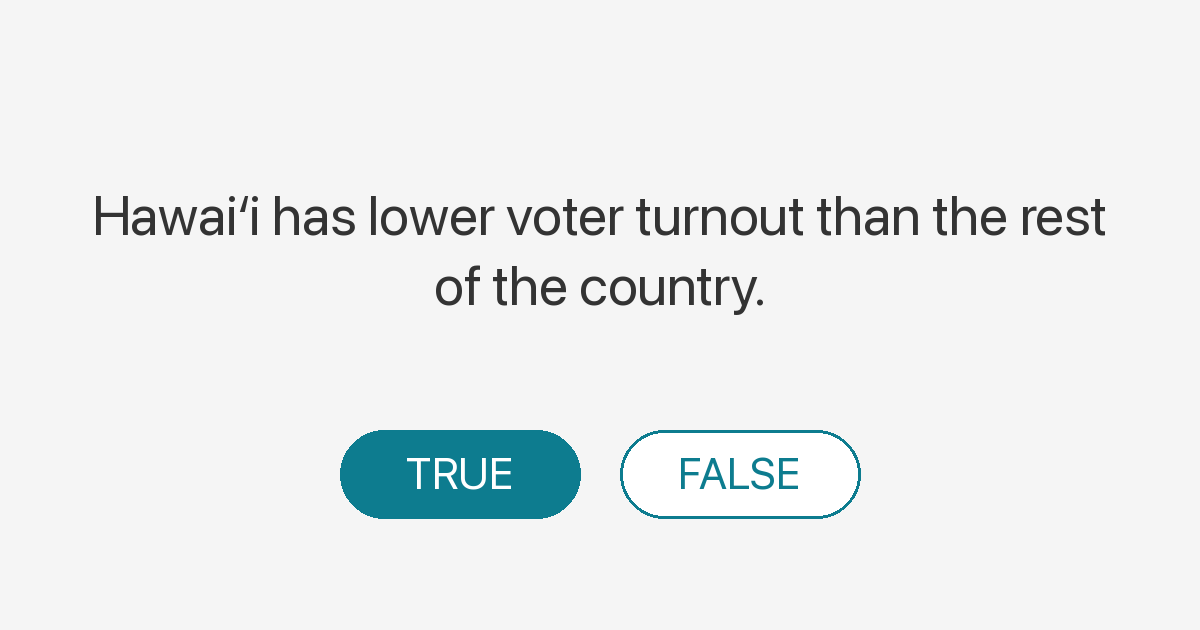
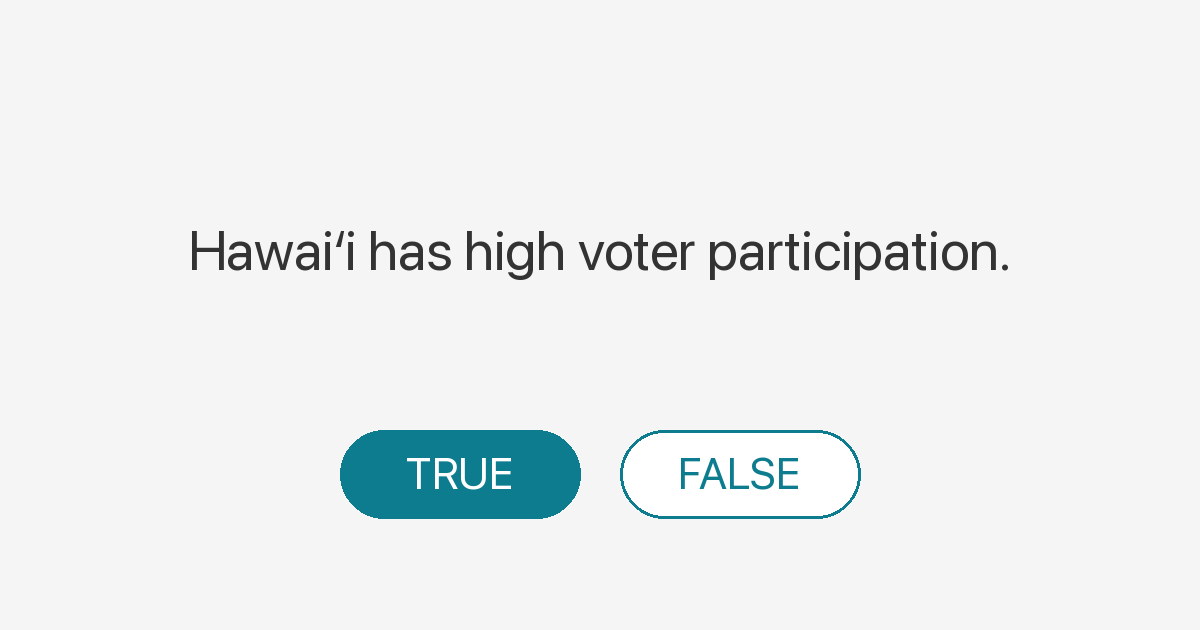
qotd(q069): reword to "Hawaiʻi has high voter participation" (now FALSE)
Flip today's question from a TRUE turnout claim to a FALSE participation claim,
for answer variety. "Voter participation" (share of eligible voters) also fits
the metric better than "voter turnout" (which conventionally means registered
voters), and matches the slug + metric label. Answer reveal is unchanged
(50.3% vs median 64.7%). Regenerated the q069 redirect page and OG card.

Changed region(s): [[0.0617, 0.3016, 0.925, 0.4825]]

diff --git a/q/q069/index.html b/q/q069/index.html
@@ -13,7 +13,7 @@
   <meta name="twitter:card" content="summary_large_image">
   <meta name="twitter:title" content="You know Hawaiʻi?">
   <meta name="twitter:image" content="https://hawaiidashboard.org/assets/og/q/hawaii-has-lower-voter-participation-than-the-rest-of-the-country.png">
-  <meta name="description" content="Hawaiʻi has lower voter turnout than the rest of the country.">
+  <meta name="description" content="Hawaiʻi has high voter participation.">
   <link rel="canonical" href="https://hawaiidashboard.org/q/q069/">
   <script>window.location.replace("/?from_q=q069");</script>
   <meta http-equiv="refresh" content="0;url=https://hawaiidashboard.org/?from_q=q069">
@@ -22,8 +22,8 @@
   <p>Redirecting to <a href="https://hawaiidashboard.org/?from_q=q069">You know Hawaiʻi?</a>&hellip;</p>
   <article style="max-width:640px;margin:2rem auto;padding:0 1rem;font-family:-apple-system,BlinkMacSystemFont,'Segoe UI',sans-serif;color:#333;line-height:1.55;">
     <p style="color:#888;font-size:0.875rem;text-transform:uppercase;letter-spacing:0.05em;margin:0;">You know Hawaiʻi?</p>
-    <p style="margin:0.25rem 0 1rem;font-size:1.25rem;font-weight:600;">Hawaiʻi has lower voter turnout than the rest of the country.</p>
-    <p><strong>True.</strong> In 2024, Hawaiʻi was 50.3% versus the median of 64.7%.</p>
+    <p style="margin:0.25rem 0 1rem;font-size:1.25rem;font-weight:600;">Hawaiʻi has high voter participation.</p>
+    <p><strong>False.</strong> In 2024, Hawaiʻi was 50.3% versus the median of 64.7%.</p>
     <p style="margin-top:1.5rem;"><a href="/r/voter_participation_rate/">See the data &rarr;</a></p>
   </article>
 </body>

diff --git a/js/questions.js b/js/questions.js
@@ -95,8 +95,8 @@ const QOTD_QUESTIONS = [
   {
       "id": "q069",
       "slug": "hawaii-has-lower-voter-participation-than-the-rest-of-the-country",
-      "claim": "Hawaiʻi has lower voter turnout than the rest of the country.",
-      "correct": true,
+      "claim": "Hawaiʻi has high voter participation.",
+      "correct": false,
       "answer": "In 2024, Hawaiʻi was 50.3% versus the median of 64.7%.",
       "chartUrl": "/r/voter_participation_rate/",
       "metric": "voter_participation_rate",
